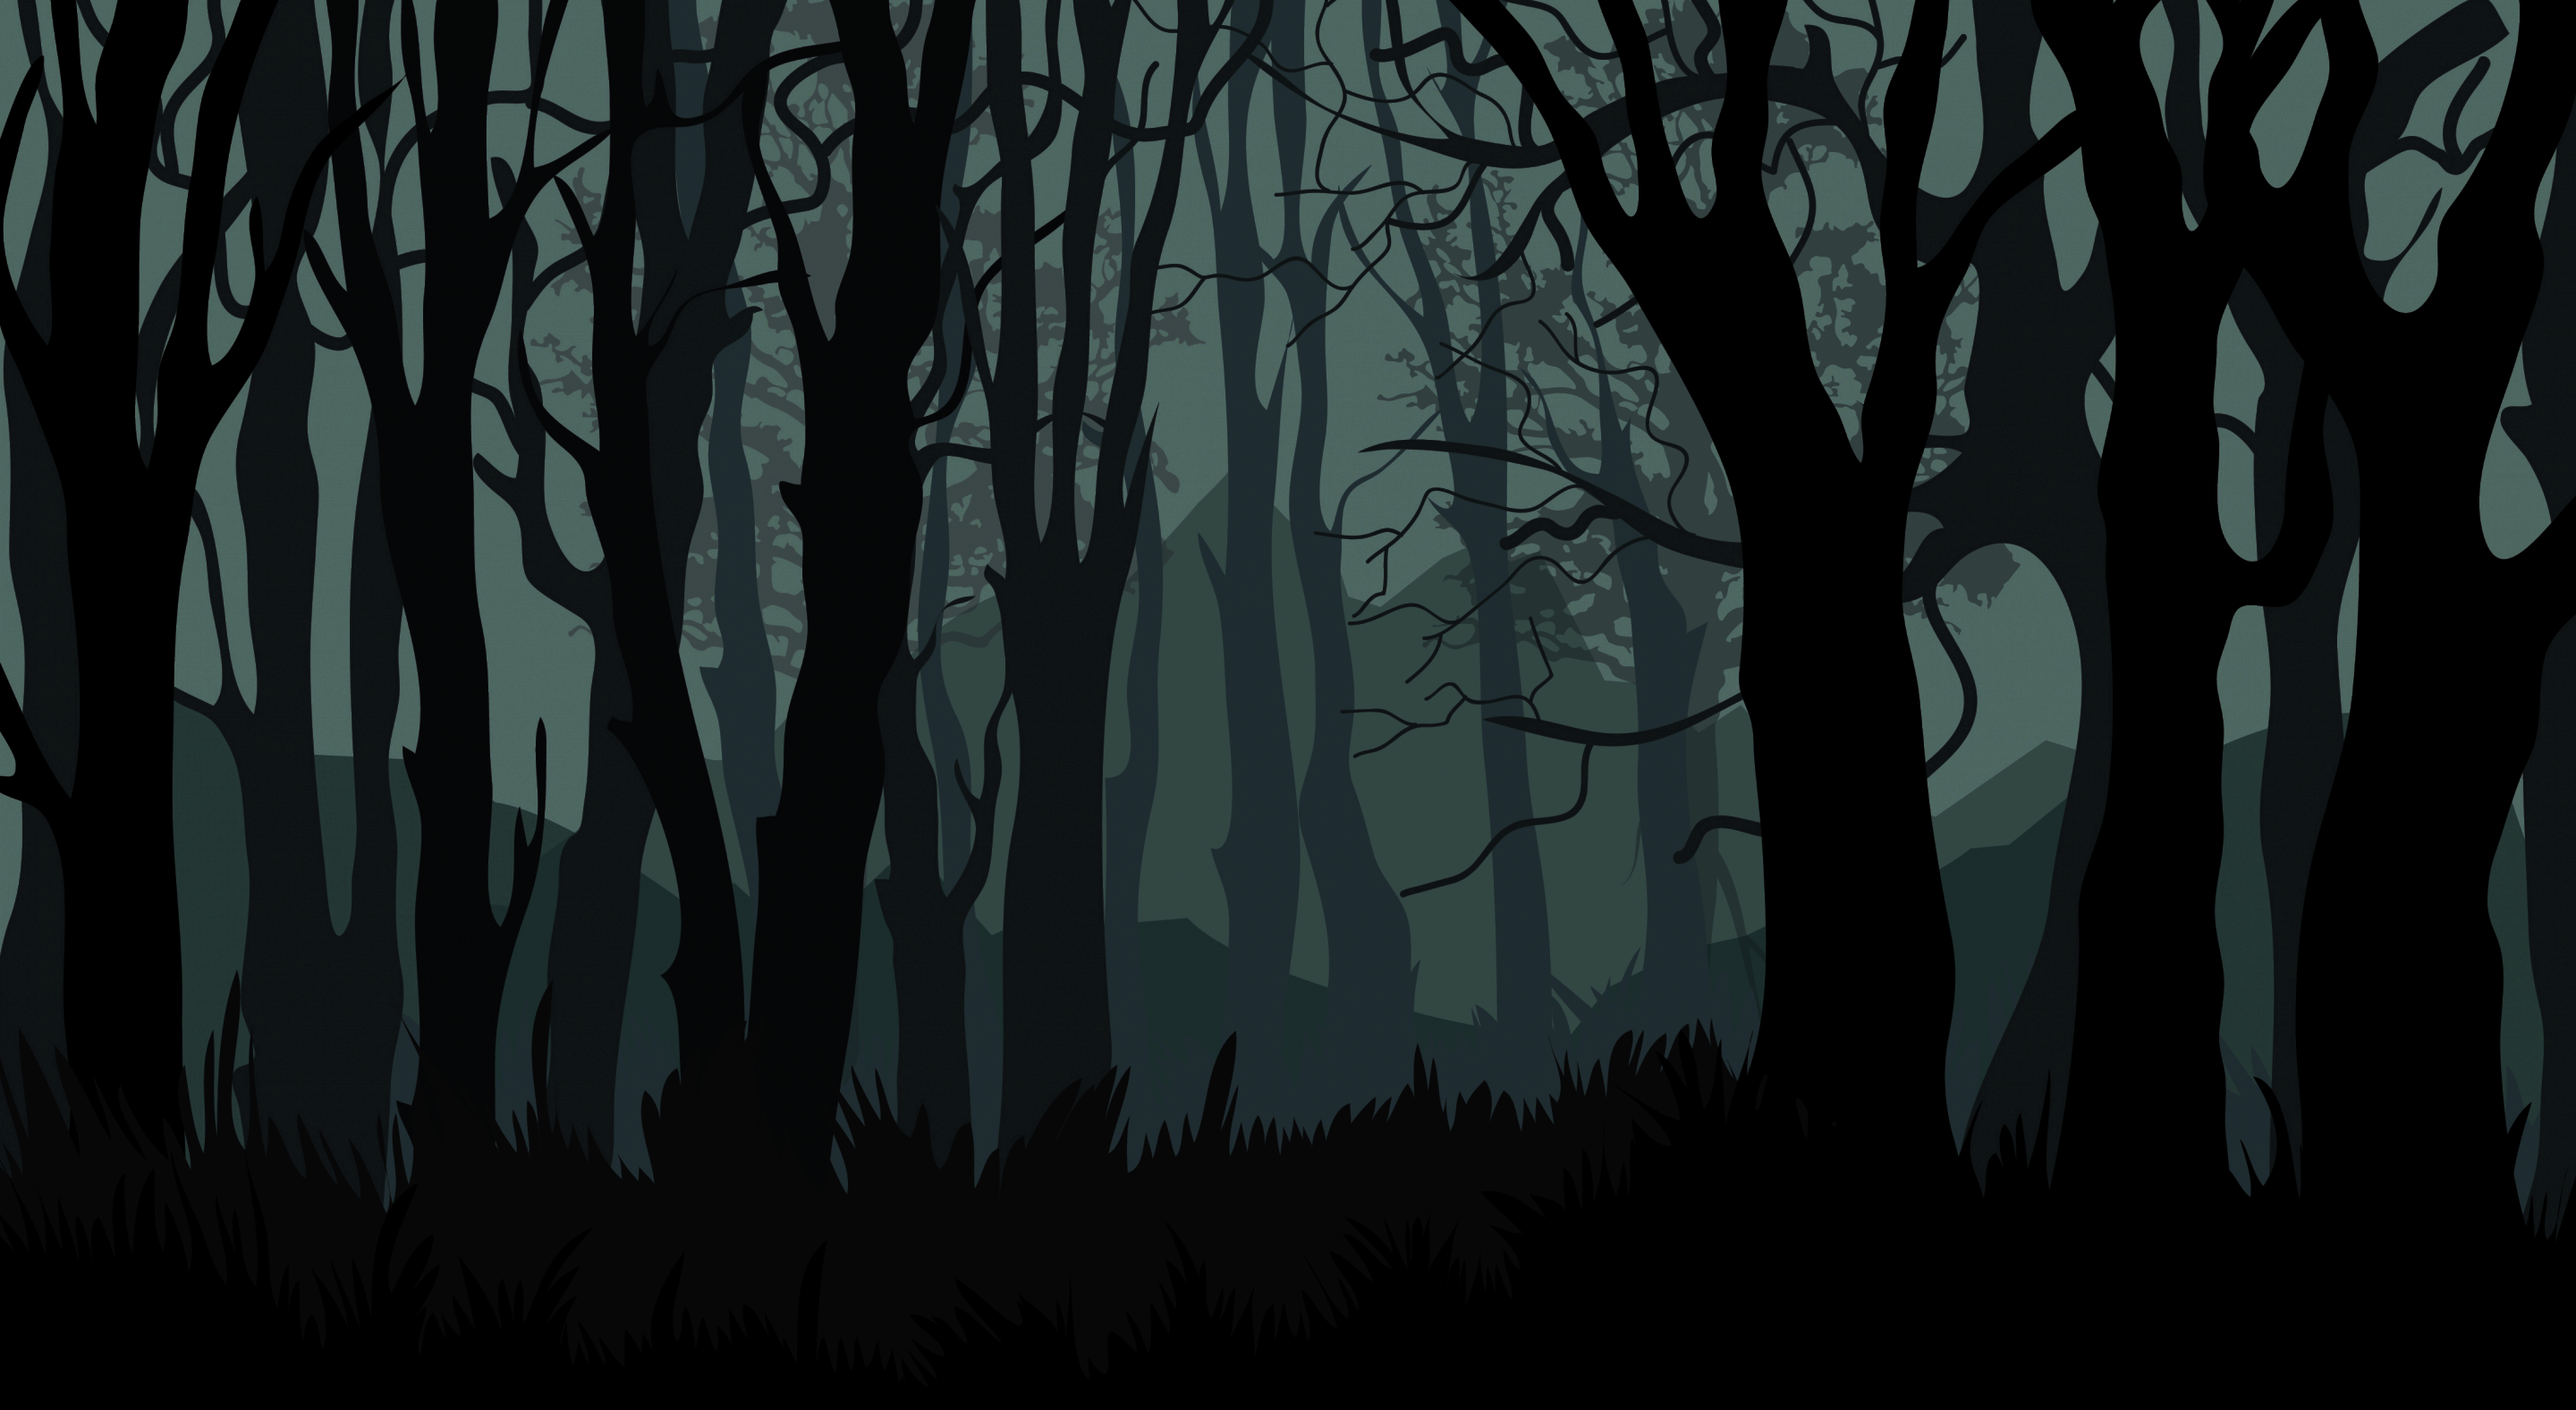
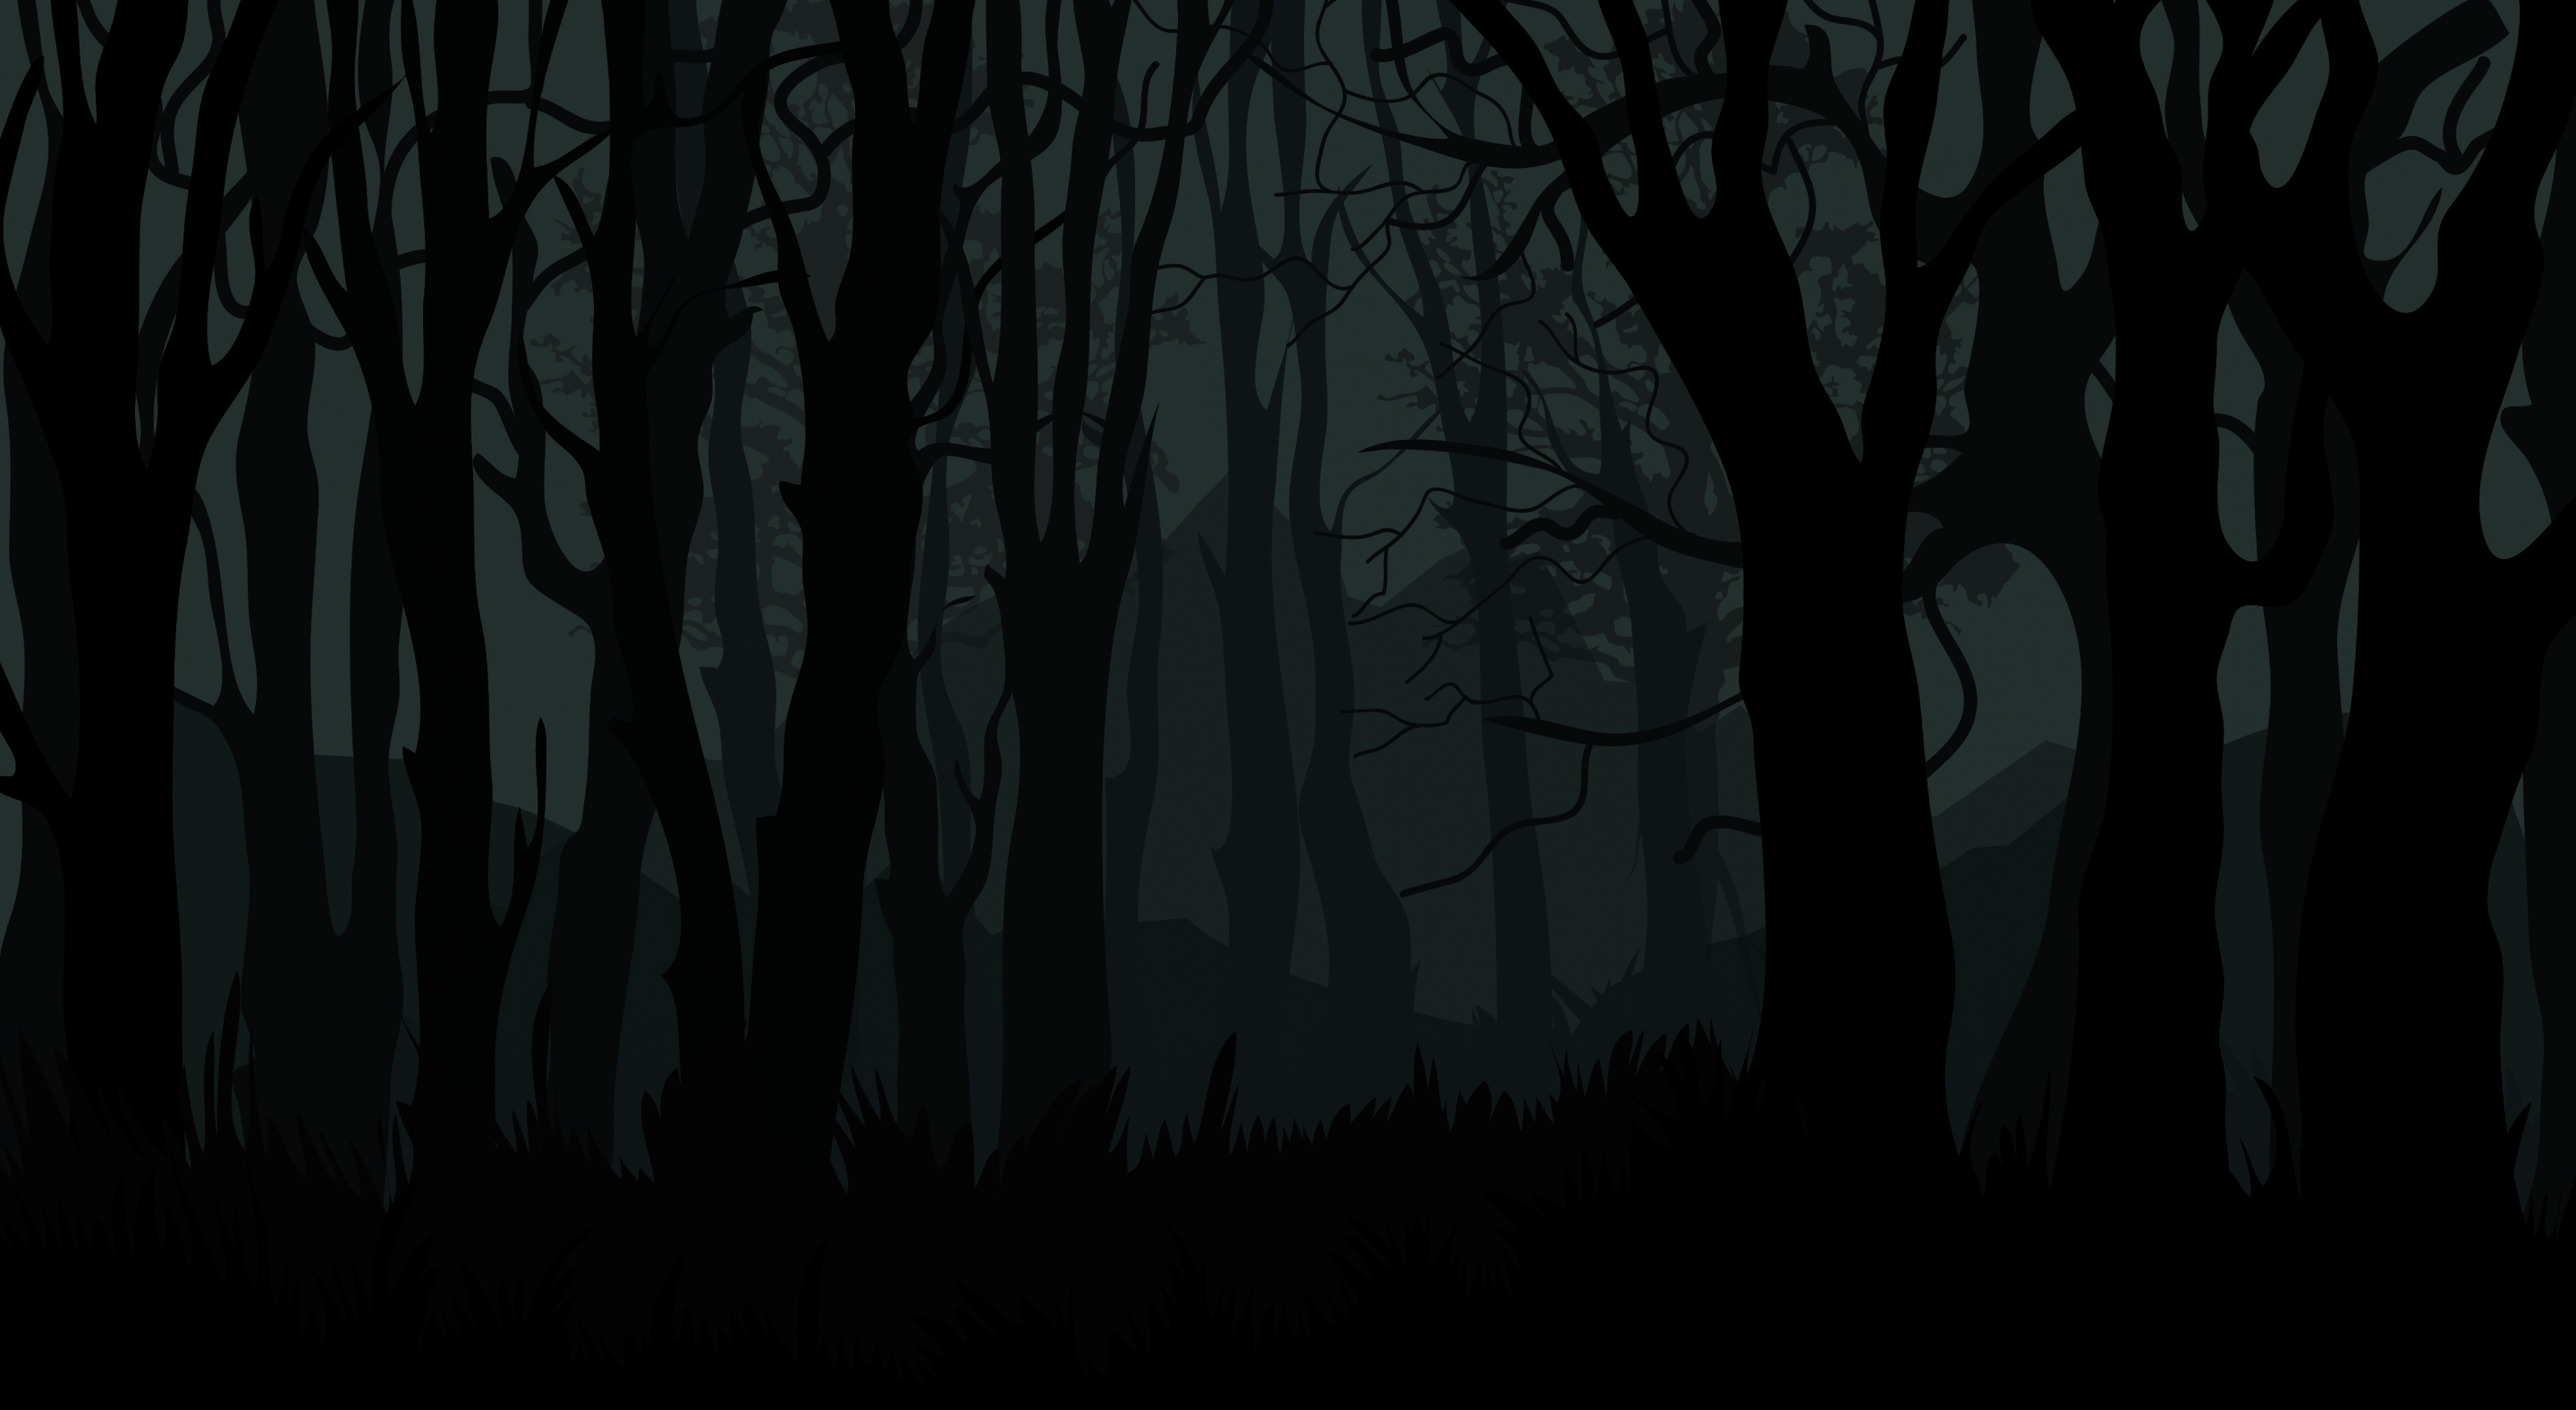
oppstart bakgrunnsskifte

diff --git a/fortelling/waypoint demo/index.js b/fortelling/waypoint demo/index.js
@@ -3,25 +3,18 @@ window.onload = function() {
 //elementer
 let articleScrollPercentageElement = document.getElementById("scroll__percent");
 let waypoints = document.getElementsByClassName("fortelling__section--waypoint");
+let waypointsBackground = document.getElementsByClassName("fortelling__section--bg");
+let dynamicBackgroundBilder = document.getElementsByClassName("dynamic__background__image");
 let waypointBilder = document.getElementsByClassName("fortelling__svg");
 let jumbotronElement = document.getElementById("jumbotron");
 let startKnapp = document.getElementById("start_knapp");
 
 let currentPic;
+let currentBG;
 let isResizing;
 let isScrolling;
 let waypointCoordinates = new Array();
-
-//bakgrunnsbilder
-let skogBG;
-
-//preload bakgrunnsbilder
-if (document.images) {
-  skogBG = new Image();
-
-  skogBG.src = "media/skog.png";
-}
-document.body.style.background = "url(" + skogBG.src + ")no-repeat center fixed";
+let waypointBGCoordinates = new Array();
 
 function regnUtCoordinates() {
   for (let i=0;i<waypoints.length;i++) {
@@ -30,6 +23,11 @@ function regnUtCoordinates() {
     let rect = waypoints[i].getBoundingClientRect();
     let rectTop = rect.top + window.scrollY;
     waypointCoordinates.push(rectTop);
+  }
+  for (let x=0;x<waypointsBackground.length;x++) {
+    let rect = waypointsBackground[x].getBoundingClientRect();
+    let rectTop = rect.top + window.scrollY;
+    waypointBGCoordinates.push(rectTop);
   }
 }
 
@@ -49,13 +47,21 @@ function fortellingOnScroll() {
     articleScrollPercentageElement.style.width = (percent + "%");
 
     let oldPic = currentPic;
+    let oldBG = currentBG;
 
     if (oldPic != currentPictureNumber()) {
       waypointBilder[oldPic].style.opacity = "0";
       waypointBilder[currentPictureNumber()].style.opacity = "1";
     }
+    if (oldBG != currentBGNumber()) {
+      dynamicBackgroundBilder[oldBG].style.opacity = "0";
+      dynamicBackgroundBilder[currentBG].style.opacity = "1";
+    }
+    console.log(currentBG);
   }, 20);
 }
+console.log(dynamicBackgroundBilder);
+
 
 function currentPictureNumber() {
   let currentWindowYPos = window.scrollY + window.innerHeight;
@@ -70,6 +76,20 @@ function currentPictureNumber() {
     }
   }
   return currentPic;
+}
+function currentBGNumber() {
+  let currentWindowYPos = window.scrollY + window.innerHeight;
+  if (currentWindowYPos >= 0 && currentWindowYPos < waypointBGCoordinates[0]) {
+    currentBG = 0;
+  } else {
+    for (let waypointsNumber = 0; waypointsNumber < waypointBGCoordinates.length; waypointsNumber++) {
+      if (currentWindowYPos > waypointBGCoordinates[waypointsNumber] && currentWindowYPos < waypointBGCoordinates[waypointsNumber+1]) {
+        currentBG = waypointsNumber + 1;
+        break;
+      }
+    }
+  }
+  return currentBG;
 }
 
 window.addEventListener("resize", resizeCalculateCoords);
@@ -94,6 +114,7 @@ startKnapp.addEventListener("click", removeJumbotron);
 
 regnUtCoordinates();
 currentPictureNumber();
+currentBGNumber();
 fortellingOnScroll();
 waypointBilder[currentPic].style.opacity = "1";
 }

diff --git a/fortelling/waypoint demo/index.html b/fortelling/waypoint demo/index.html
@@ -9,6 +9,12 @@
     </head>
 
 <body>
+    <div id="dynamic__background">
+        <img class="dynamic__background__image" src="media/intro.png" alt="Tomt bilde">
+        <img class="dynamic__background__image" src="media/skog.png" alt="Mørk skog">
+        <img class="dynamic__background__image" src="media/skog_regn.png" alt="Regn som faller ned i en mørk skog">
+        <img class="dynamic__background__image" src="media/skog_sol.png" alt="En skog som lyses opp av sol, med blomster">
+    </div>
     <div id="scroll__percent"></div>
     <div id="jumbotron" class="main__element">
         <img src="media/planet.svg" alt="Planeten Ufroopya" id="planet__svg">
@@ -31,13 +37,13 @@
                 <div class="fortelling__section fortelling__section--waypoint">
                     <p>Ti tusen år senere var himmelen svart, og hadde ikke sett regn, sol eller skyer siden Ufroopyas undergang. En ny sivilisasjon hadde begynt å ta form. Blant dem var en bonde, en forfatter og en forsker.  En dag bestemte disse tre seg for å utforske planeten, i håp om å oppdage mat og ressurser.</p>
                 </div>
-                <div class="fortelling__section fortelling__section--skog">
+                <div class="fortelling__section fortelling__section--skog fortelling__section--bg">
                     <p>De gikk langt om lenge, og kom plutselig over en skog de aldri hadde oppdaget før. Skogen hadde mange høye trær som skygget over himmelen. Innover i skogen var det trær og vekster så langt øye kunne se. De tre mennene fikk en rar følelse da de nærmet seg skogen, men bestemte seg for å gå lenger inn. </p>
                 </div>
-                <div class="fortelling__section">
+                <div class="fortelling__section fortelling__section--bg">
                     <p>Da de var kommet lenger inn i skogen, la de merke til at det falt vann fra himmelen. De stusset over dette fenomenet. Særlig bonden viste interesse i dette, da han så at det var et yrende planteliv der vannet hadde falt.</p>
                 </div>
-                <div class="fortelling__section">
+                <div class="fortelling__section fortelling__section--bg">
                     <p>Videre inne i skogen oppdaget de en gigantisk sirkel av lys som skinte ned på den. Brått ga det farge til omgivelsene rundt, og ga mennene en underlig varme. Etter å ha varmet seg under lyset en liten stund, gikk de videre inn i skogen.</p>
                 </div>
                 <div class="fortelling__section fortelling__section--waypoint">

diff --git a/fortelling/waypoint demo/index.css b/fortelling/waypoint demo/index.css
@@ -11,10 +11,6 @@ body, html {
     height:100%;
     width:100%;
 }
-html {
-    //background:url("media/skog.png")no-repeat center fixed;
-    background-size:cover;
-}
 h1, h2, h3 {
     font-family:"Kompakt", Arial, sans-serif;
     margin:15px 0px;
@@ -86,6 +82,23 @@ p, b, i, a, button {
         opacity: 0;
     }
 }
+#dynamic__background {
+    width:100%;
+    height:100%;
+    overflow:hidden;
+    top:0;
+    position:fixed;
+    z-index:-3;
+    background:#323031;
+}
+.dynamic__background__image {
+    position:absolute;
+    top:0;
+    width:100%;
+    height:100%;
+    opacity:0;
+    transition:opacity .5s linear;
+}
 #scroll__percent {
     width:0%;
     height:7px;
@@ -141,6 +154,9 @@ p, b, i, a, button {
 }
 .fortelling__section--waypoint {
     background:teal;
+}
+.fortelling__section--bg {
+    background:lean;
 }
 .fortelling__bilde {
     width:60%;
